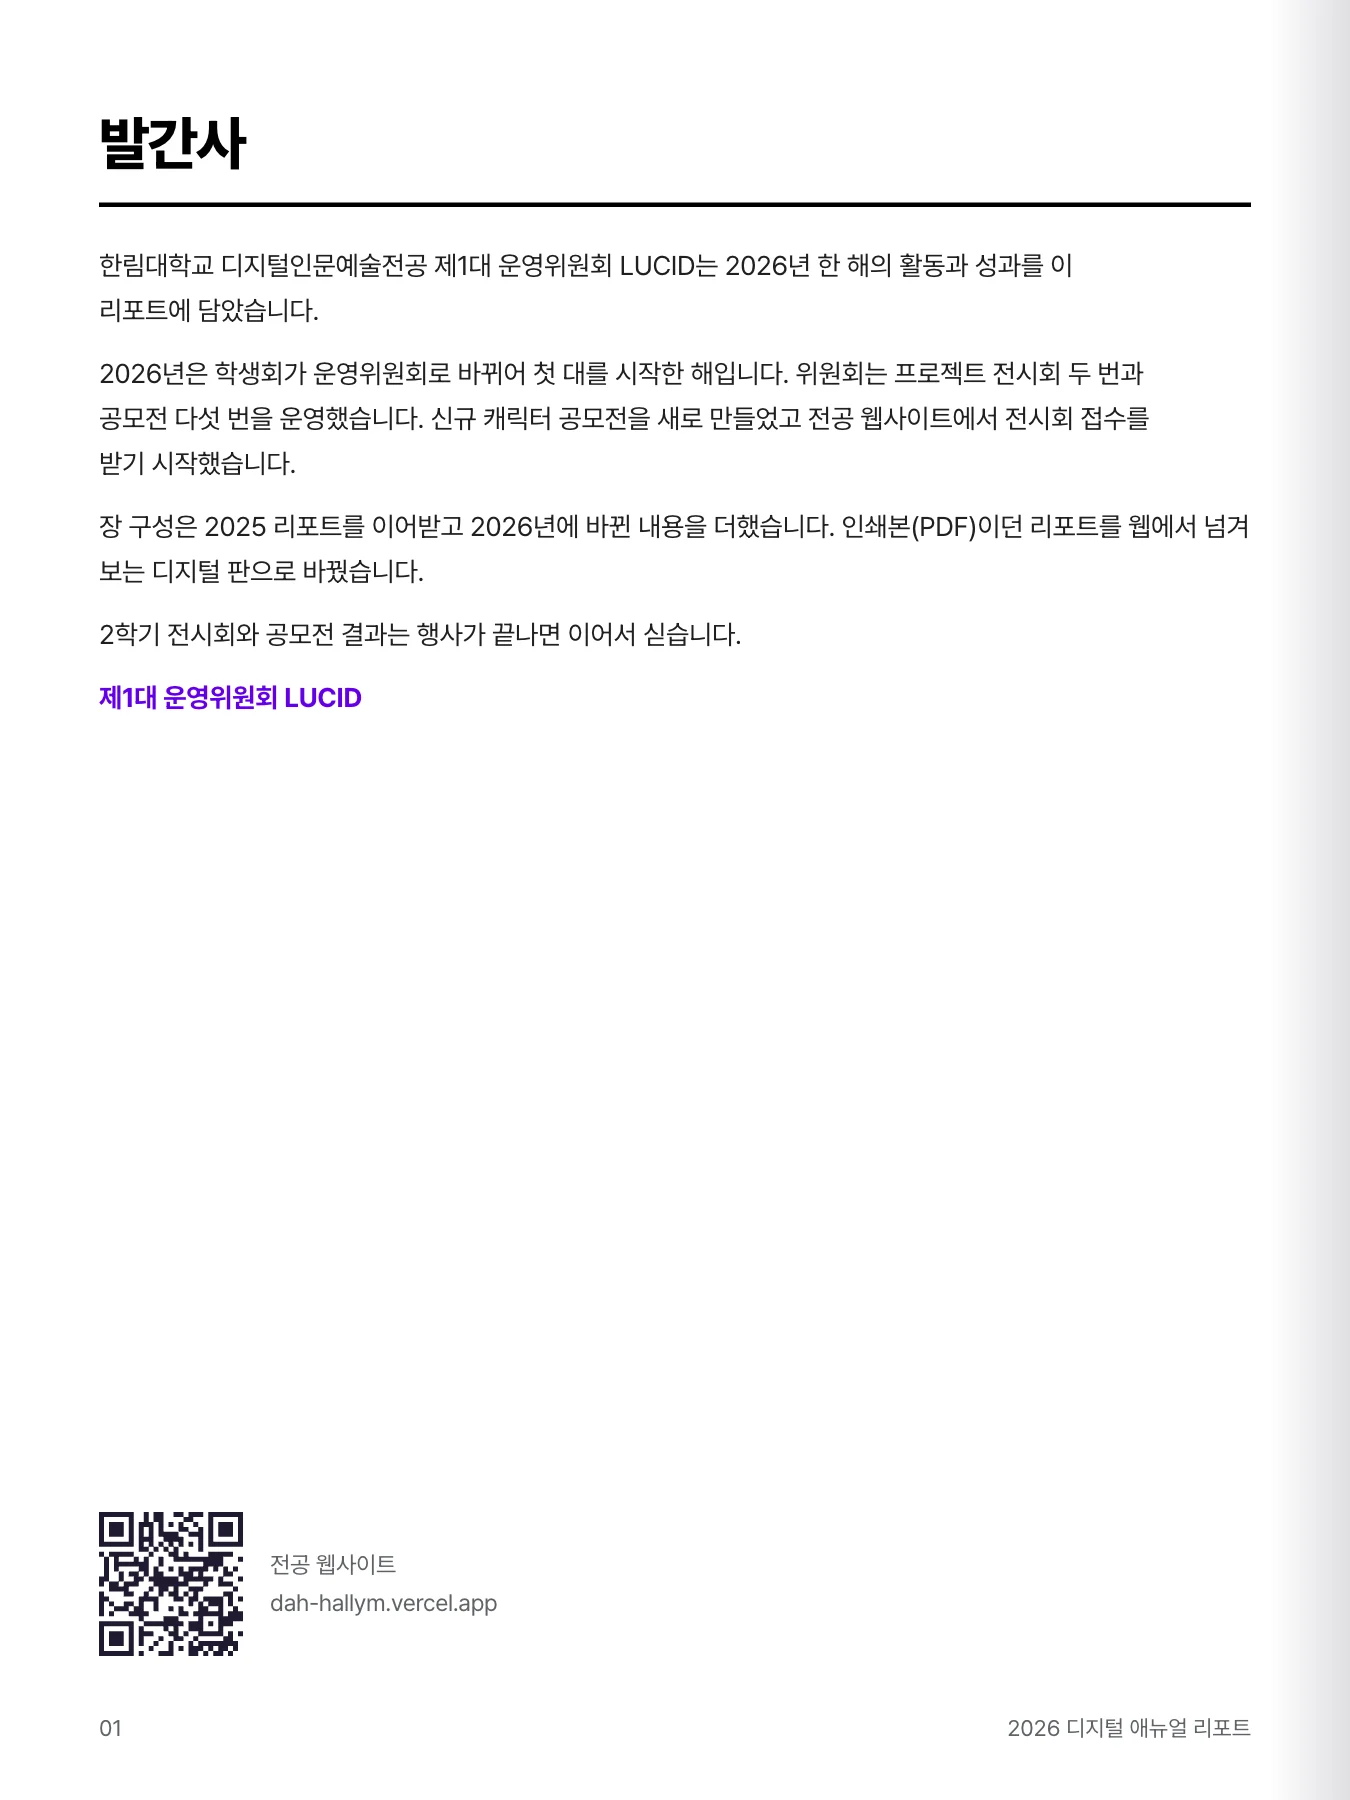
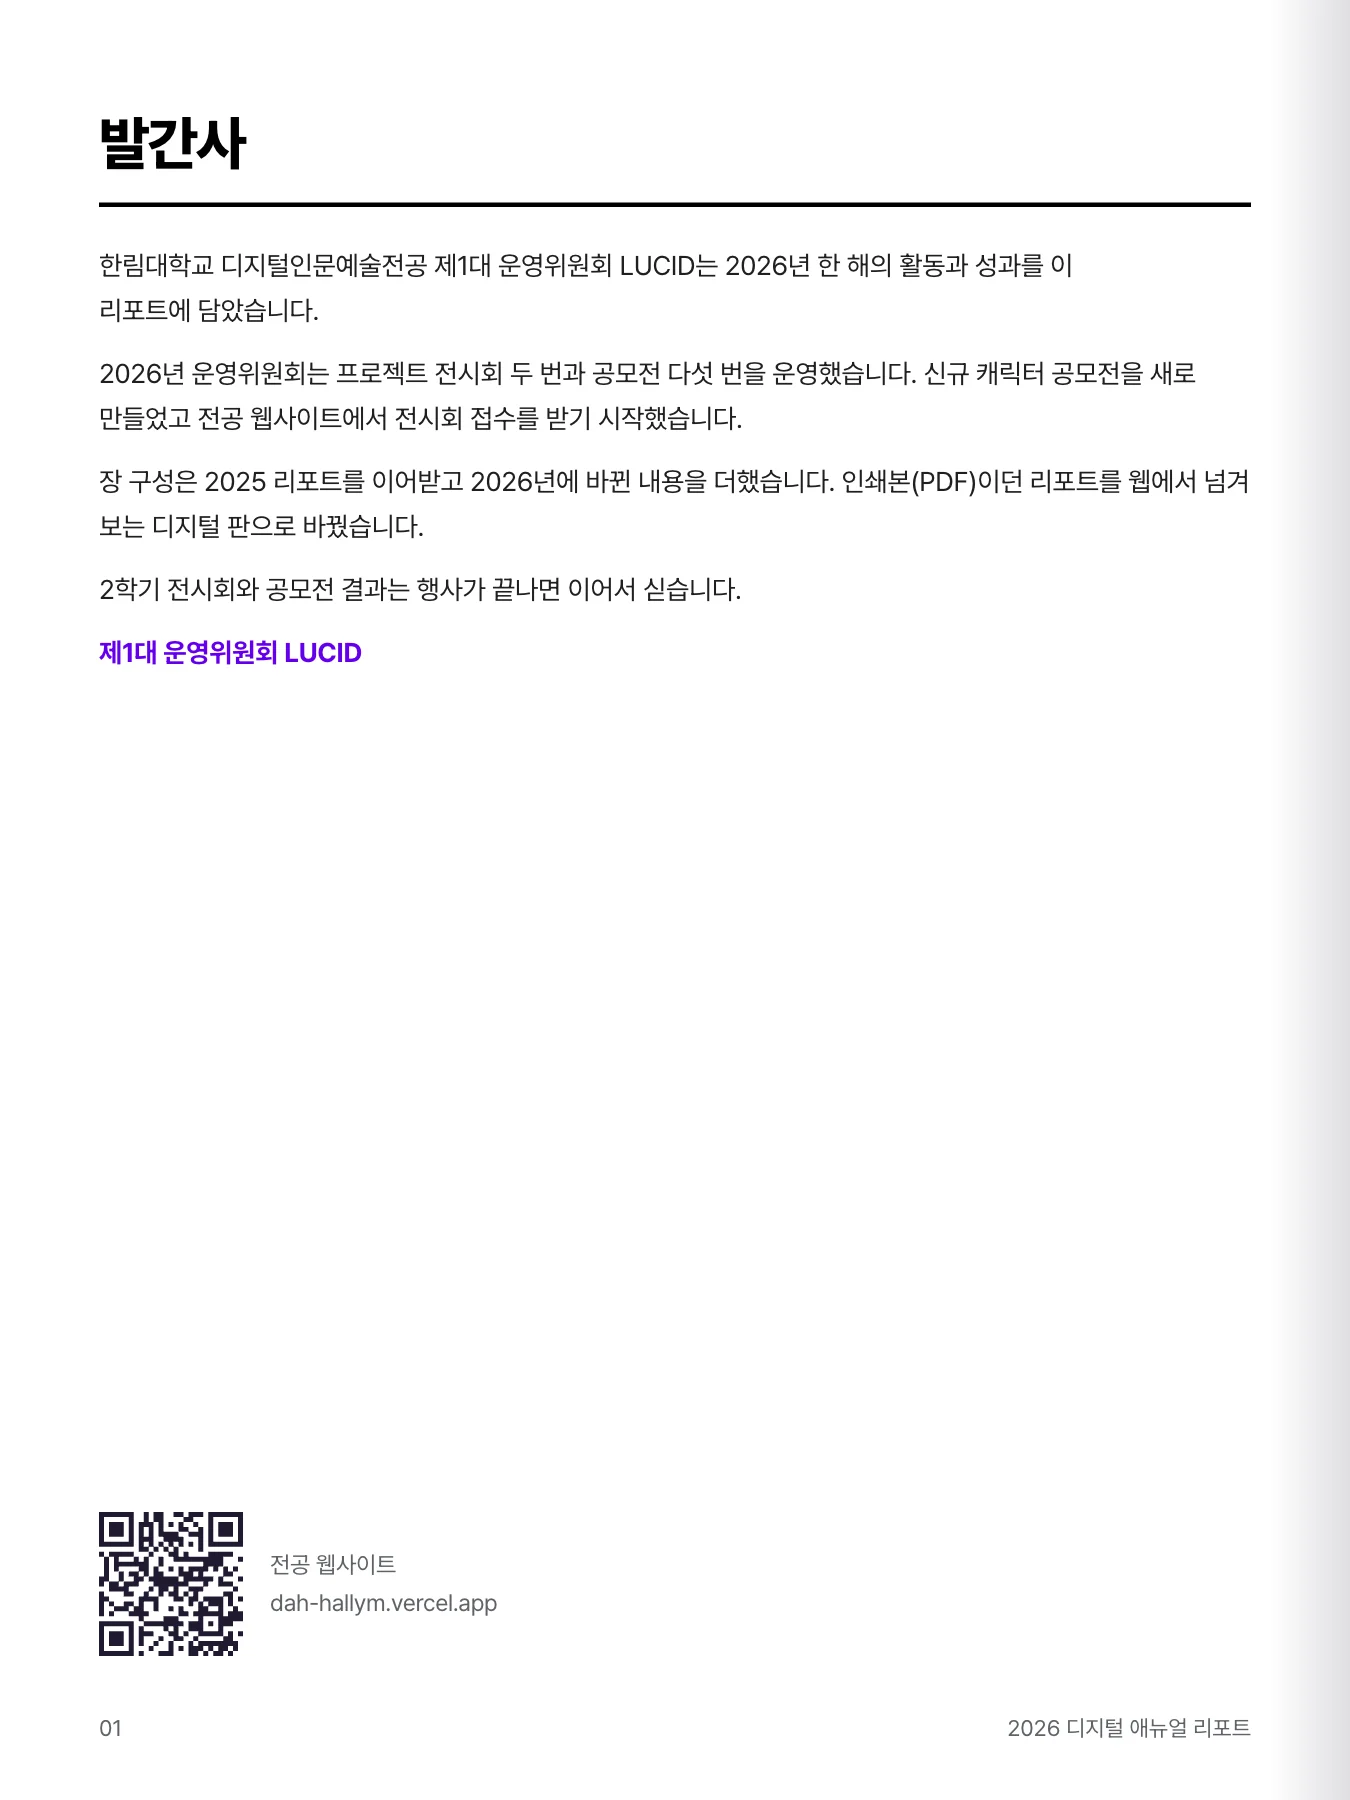
애뉴얼 리포트: 학생회에서 운영위원회로 바뀐 대수 설명 문장 삭제(발간사, 학생회 역사, 전환 쪽, 맺음말), 4쪽 다시 굽기

Changed region(s): [[0.0622, 0.1867, 0.9333, 0.4044]]

diff --git a/client/src/pages/annual/AnnualPages.jsx b/client/src/pages/annual/AnnualPages.jsx
@@ -359,7 +359,7 @@ export const pages = [
         <div className="ap-prose">
           <p>한림대학교 디지털인문예술전공 제1대 운영위원회 LUCID는 2026년 한 해의 활동과 성과를 이 리포트에 담았습니다.</p>
           <p>
-            2026년은 학생회가 운영위원회로 바뀌어 첫 대를 시작한 해입니다. 위원회는 프로젝트 전시회 두 번과 공모전 다섯 번을 운영했습니다.
+            2026년 운영위원회는 프로젝트 전시회 두 번과 공모전 다섯 번을 운영했습니다.
             신규 캐릭터 공모전을 새로 만들었고 전공 웹사이트에서 전시회 접수를 받기 시작했습니다.
           </p>
           <p>
@@ -645,7 +645,7 @@ export const pages = [
       <>
         <Head title="학생회의 역사" sub="2017년 전공 설립과 함께 시작한 학생 조직" />
         <Table head={['연도', '학생 조직']} cols={['22%', '78%']} rows={councils.map((c) => [c.year_label, c.name])} />
-        <p className="ap-note">2017년 전공 설립과 함께 학생 조직이 시작되었습니다. 2026년부터 학생회는 제1대 운영위원회 LUCID가 되었습니다.</p>
+        <p className="ap-note">2017년 전공 설립과 함께 학생 조직이 시작되었습니다.</p>
       </>
     ),
   },
@@ -657,7 +657,7 @@ export const pages = [
       <>
         <Head title="학생회에서 운영위원회로" sub="이름과 구조가 바뀐 2026년" />
         <div className="ap-prose">
-          <p>2026년에 전공 학생 대표 조직의 이름이 학생회에서 운영위원회 LUCID로 바뀌었습니다. 대수도 제1대로 새로 셉니다.</p>
+          <p>전공 학생 대표 조직의 이름이 학생회에서 운영위원회 LUCID로 바뀌었습니다.</p>
           <p>위원회는 학생회 역할을 이어받아 전시회 접수와 공모전 운영을 맡습니다. 전공 웹사이트도 위원회가 직접 운영합니다.</p>
         </div>
         <Table
@@ -1620,7 +1620,7 @@ export const pages = [
       <>
         <Head title="맺음말" />
         <div className="ap-prose">
-          <p>2026년은 학생회에서 운영위원회로 바뀐 첫 해이자 전공 운영이 웹으로 옮겨 간 해입니다.</p>
+          <p>2026년은 전공 운영이 웹으로 옮겨 간 해입니다.</p>
           <p>2학기 프로젝트 전시회 결과와 공모전 수상작은 이 리포트에 이어서 싣습니다.</p>
           <p className="ap-sign">{reportMeta.council}</p>
         </div>
